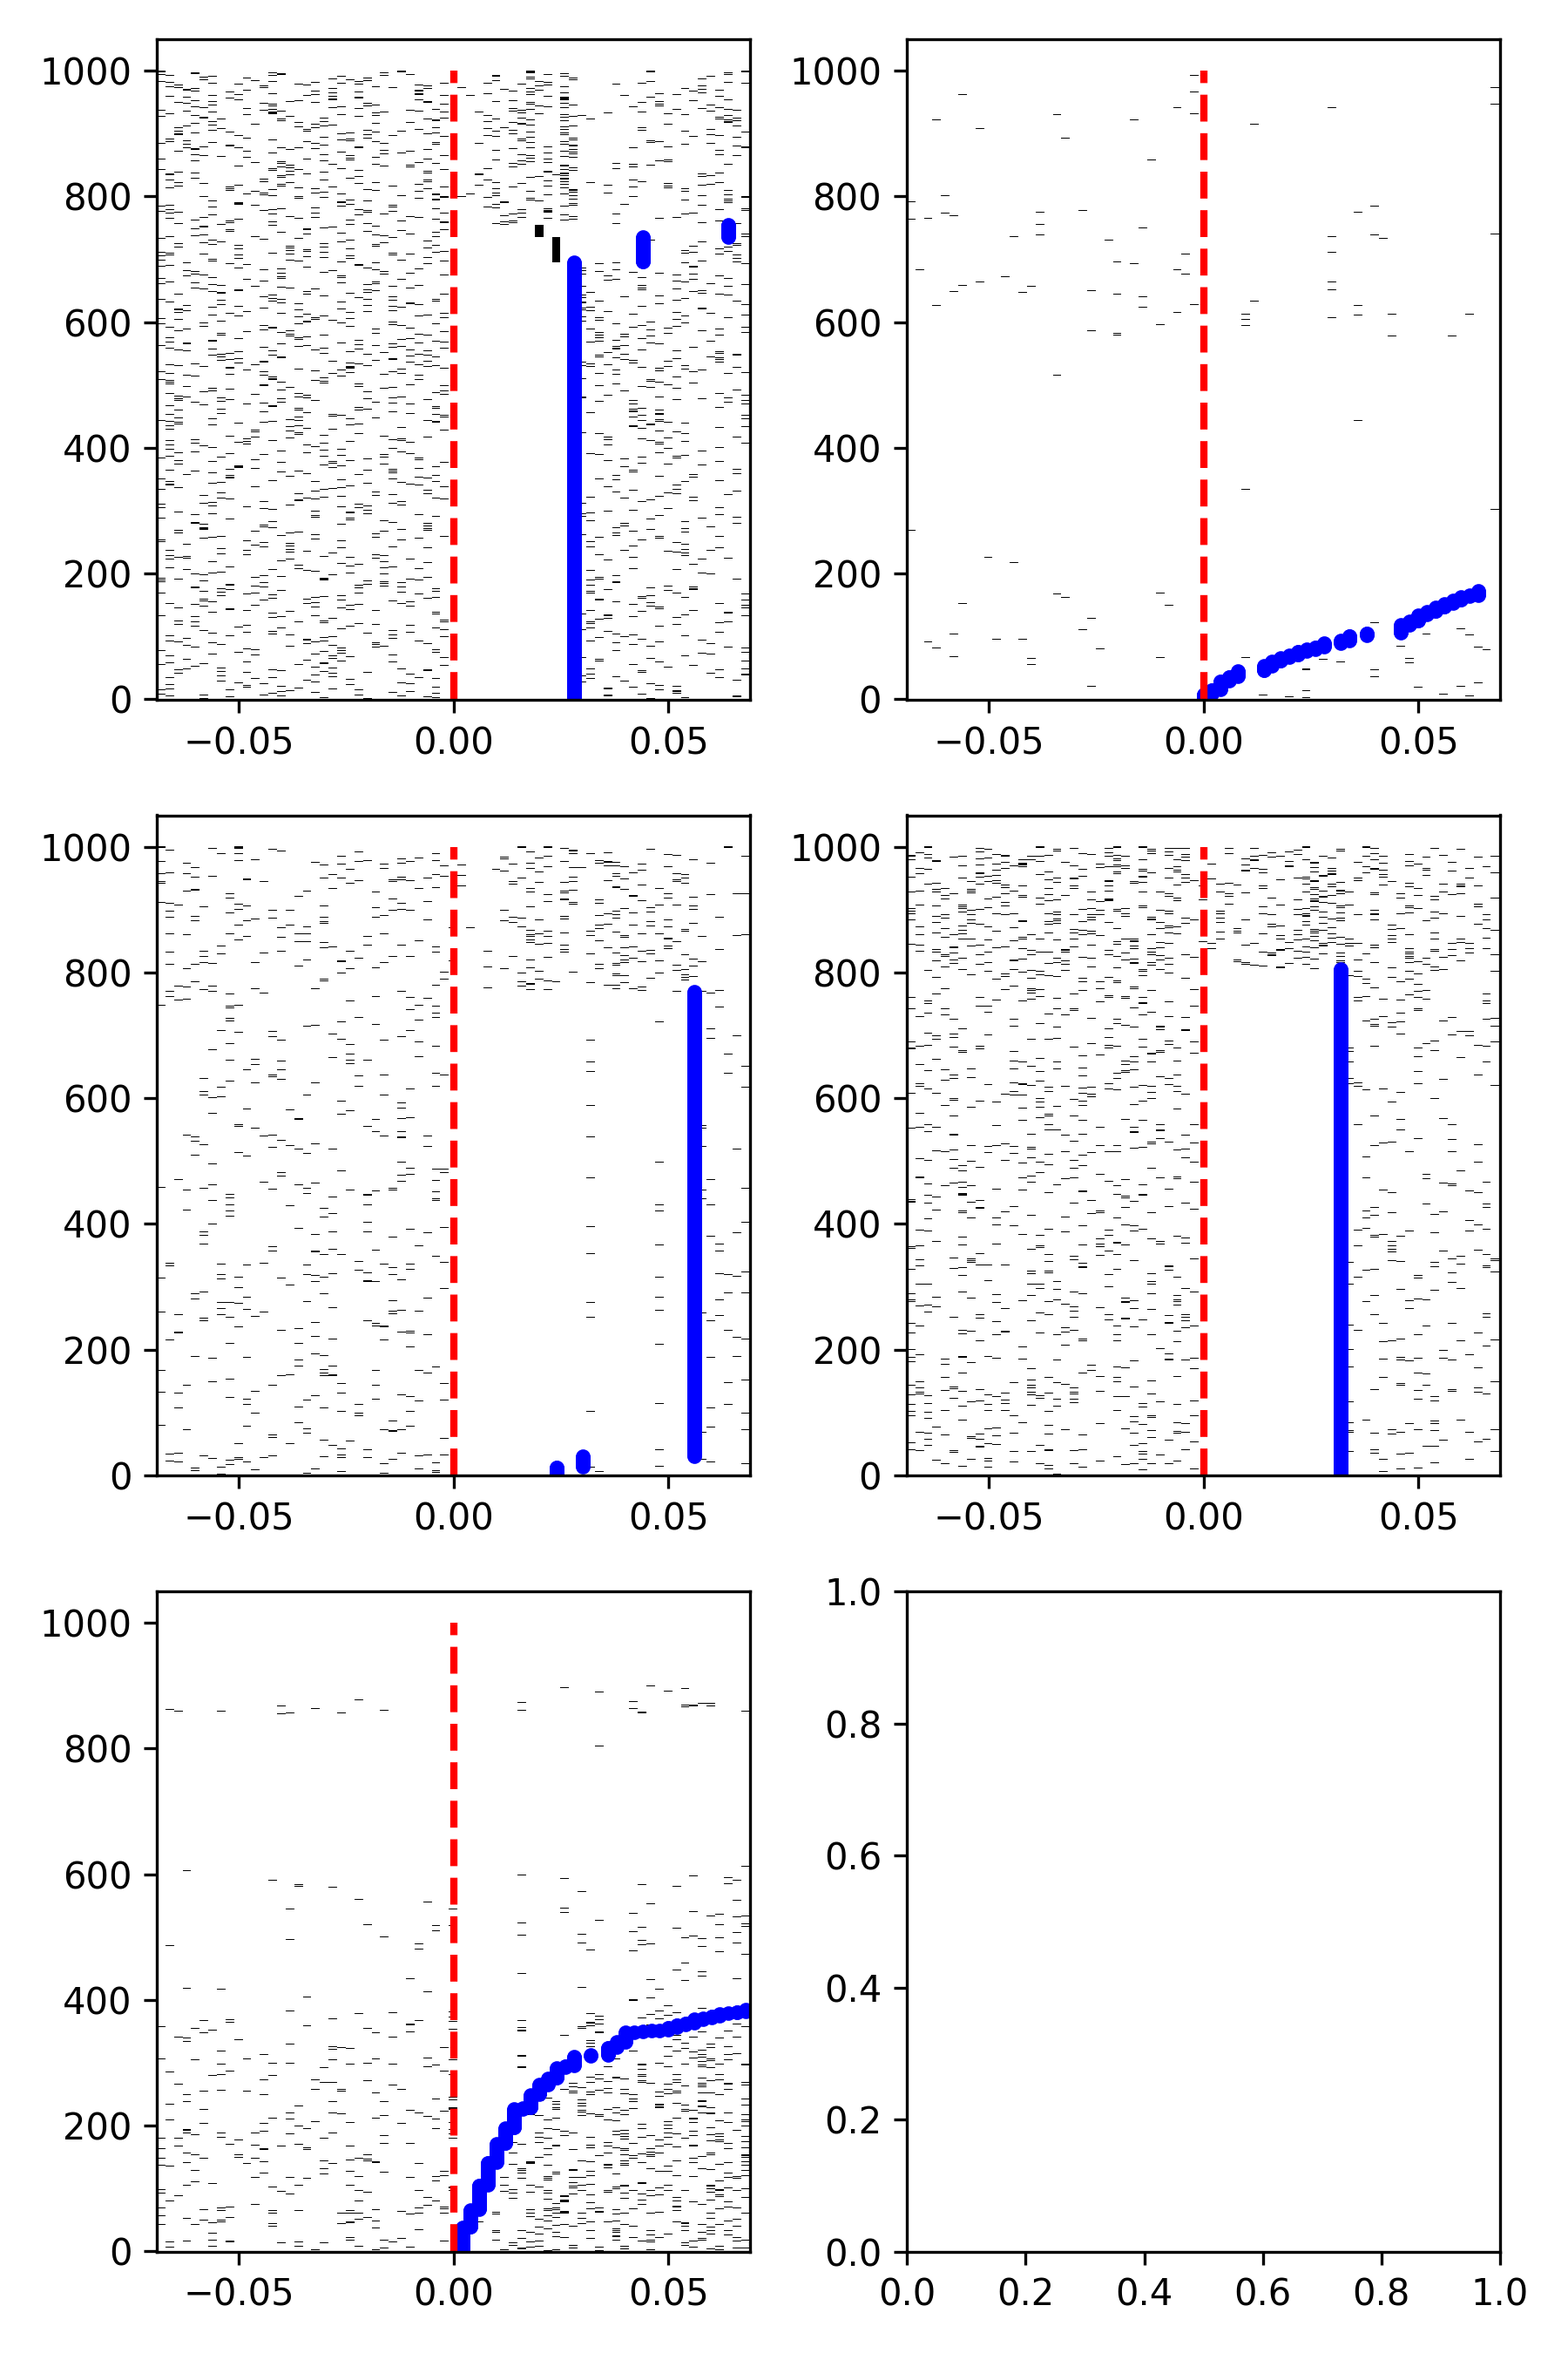
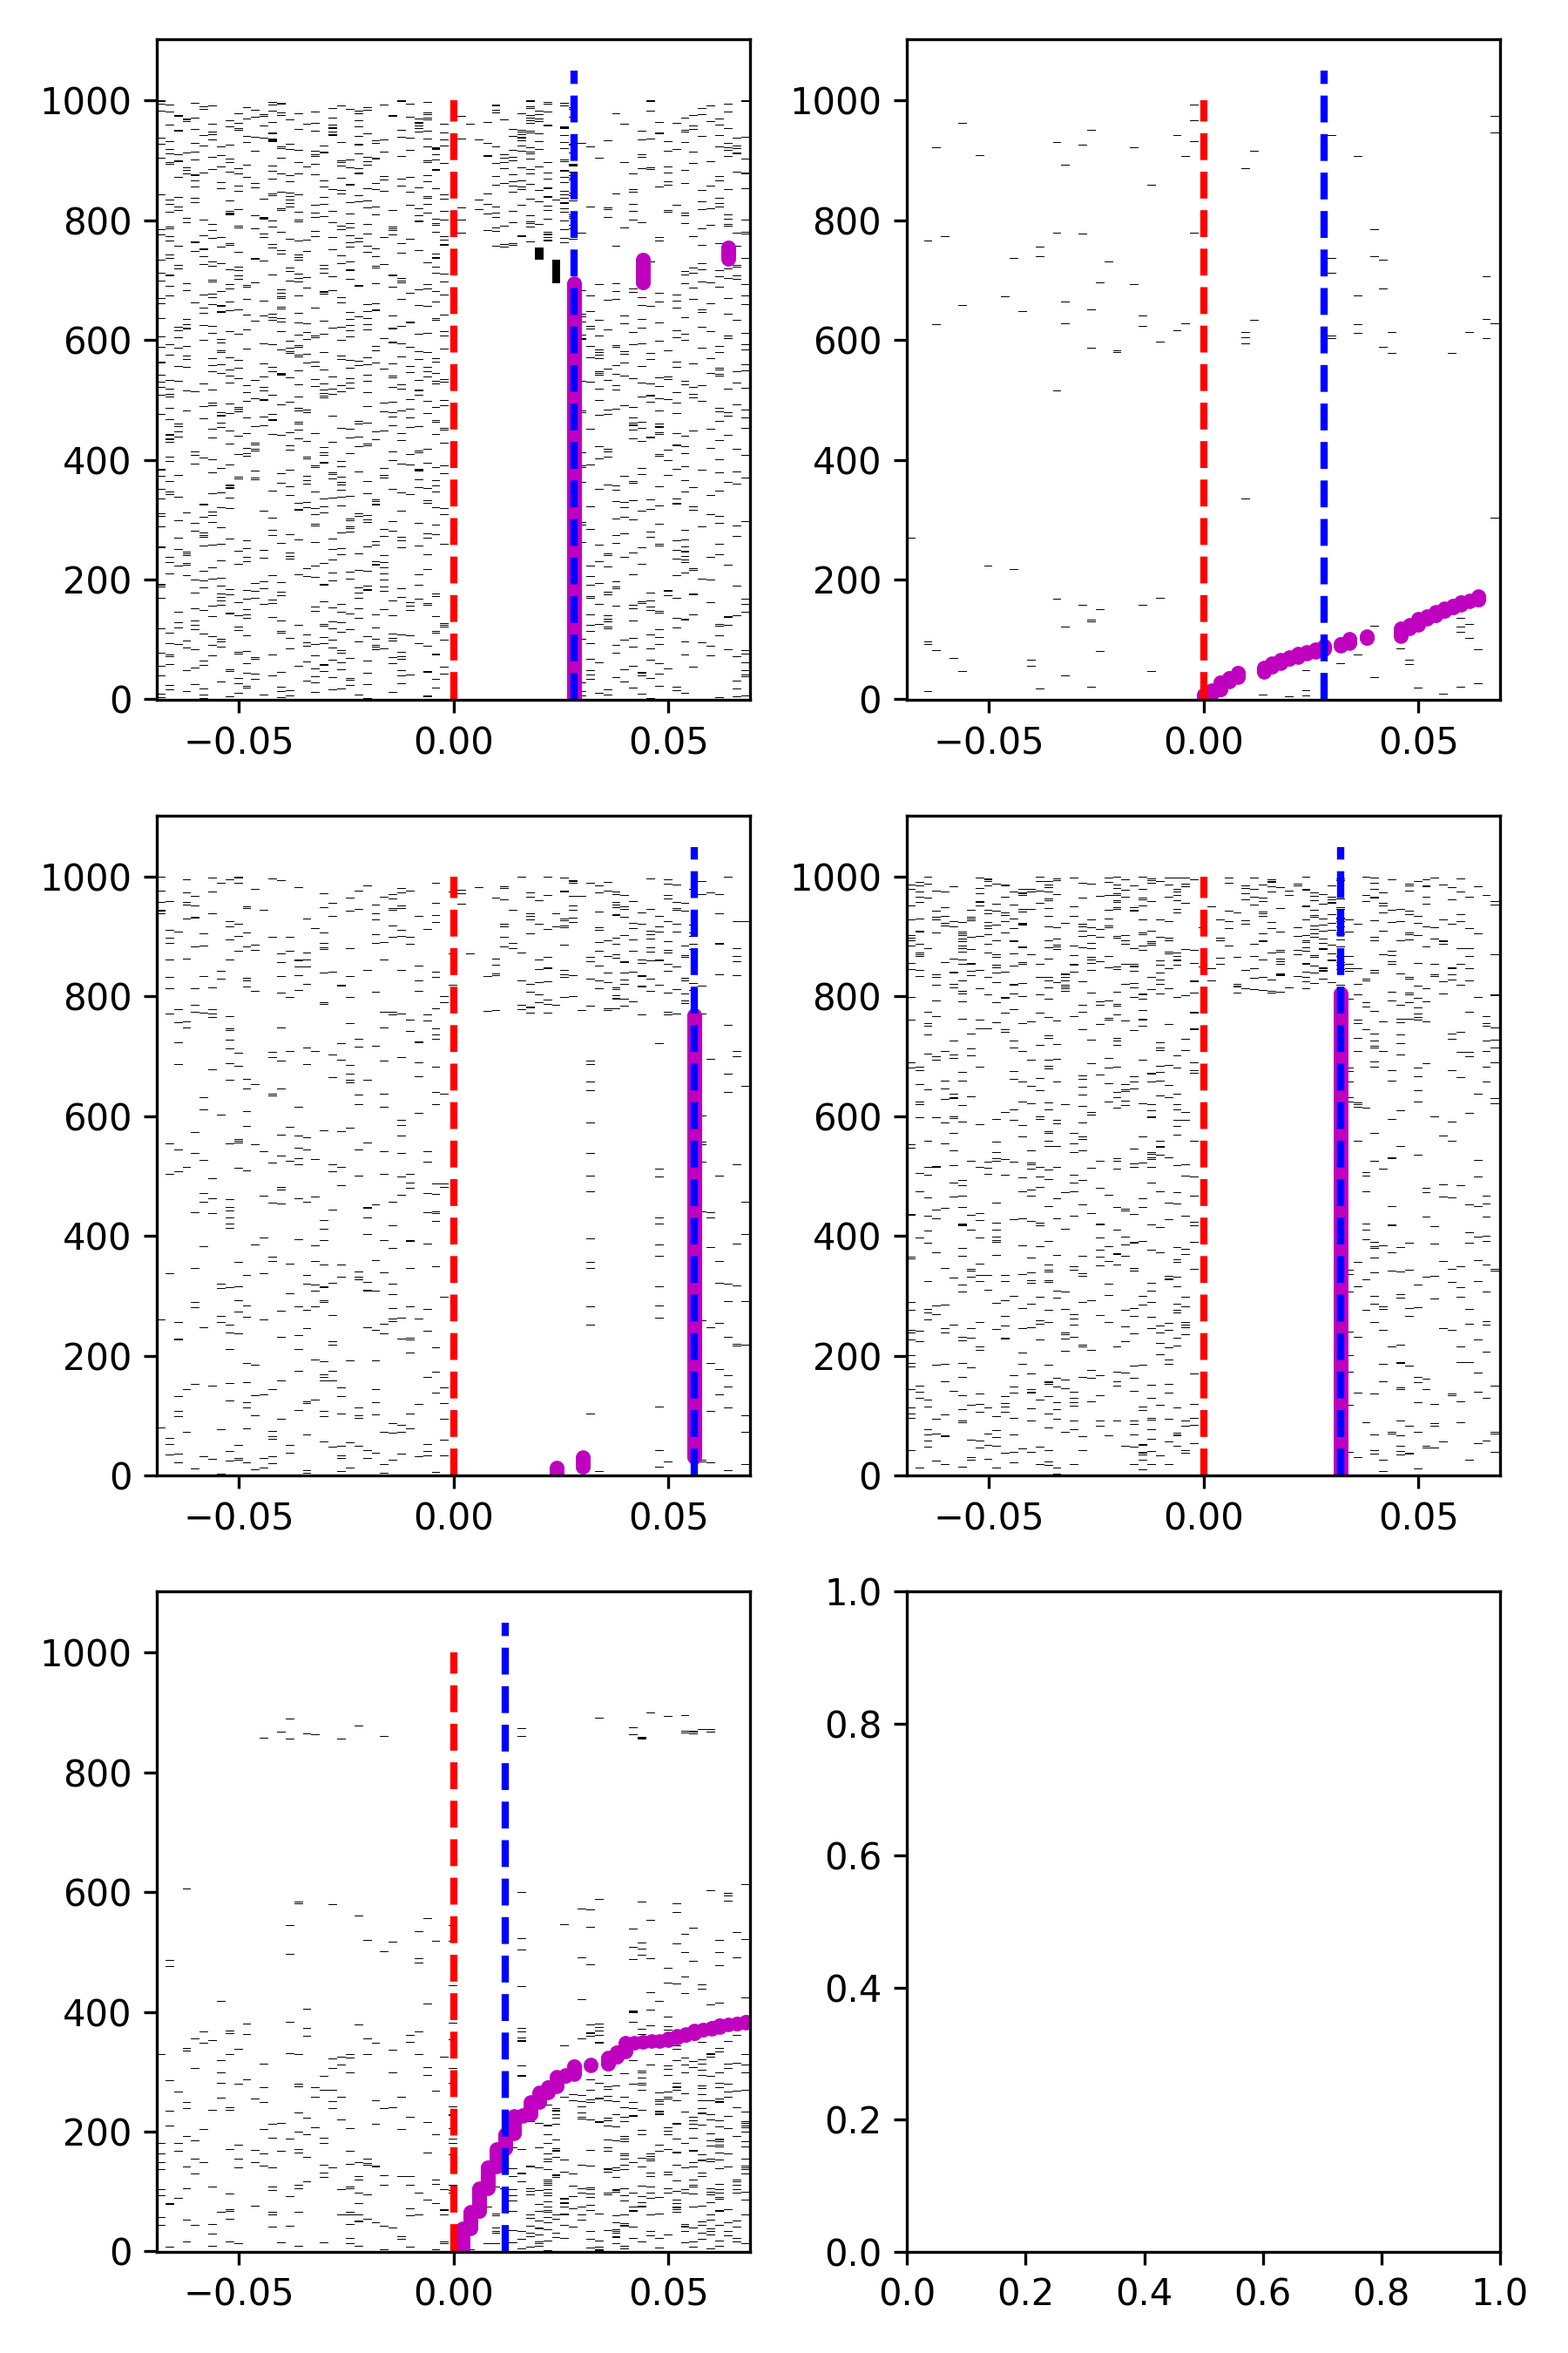
update tests

diff --git a/tests/test_analysis.py b/tests/test_analysis.py
@@ -1141,6 +1141,15 @@ class LatencyTests(unittest.TestCase):
         )
         np.testing.assert_allclose(llr.round(3), matlab_llr)
 
+        test_spike = np.array([1, 0, 1, 0, 1, 0, 1, 1, 1, 1, 1, 1])
+        rate1 = np.array([1, 1, 1, 1, 1, 1, 1, 1, 1, 1, 1, 1])
+        rate2 = np.array([0.5, 0.5, 0.5, 0.5, 0.5, 0.5, 0.5, 0.5, 0.5, 0.5, 0.5, 0.5])
+
+        llr_spike1 = latency.calc_llr_inh_poisson(test_spike, rate1, rate2)
+        llr_spike2 = latency.calc_llr_inh_poisson(test_spike, rate2, rate1)
+
+        np.testing.assert_allclose(llr_spike1, -llr_spike2)
+
     def test_accllr(self):
         
         lfp_altcond = np.array([
@@ -1402,22 +1411,46 @@ class LatencyTests(unittest.TestCase):
     def test_calc_accllr_wrapper_spikes(self):
 
         npts = 100
-        nch = 50
+        nch = 5
         ntrials = 30
         onset_idx = 50
-        altcond = np.random.poisson(0.5,npts)
-        altcond[onset_idx:] = np.random.poisson(5,npts-onset_idx)
-        altcond = np.repeat(np.tile(altcond, (nch,1)).T[:,:,None], ntrials, axis=2)
         np.random.seed(0)
-        nullcond = np.random.poisson(0.5,size=altcond.shape)
+        altcond = np.random.poisson(0.1,(npts,nch,ntrials))
+        altcond[onset_idx:] = np.random.poisson(0.5,(npts-onset_idx,nch,ntrials))
+        nullcond = np.random.poisson(0.1,size=altcond.shape)
         print(altcond.shape, nullcond.shape)
 
         # Test wrapper with spike data and no selectivity matching and trial_average=True
         st, roc_auc, roc_se, roc_p_fdrc = latency.calc_accllr_st(altcond, nullcond, altcond, nullcond, 'spike', 1)
-    
+        accllr_mean = np.nanmedian(st, axis=1)
+
+        # Plot rasters sorted by latency
+        ncol = 2
+        nt, nch, ntrial = altcond.shape
+        altcond_time = np.arange(nt)
+        nullcond_time = altcond_time.copy() - altcond_time[-1]
+        nrow = (nch//ncol)+1
+        fig, ax = plt.subplots(nrow, ncol, figsize=(6, nrow*3))
+        for iunit in range(nch):
+            sorted_idx = np.argsort(st[iunit])
+            irow = iunit//ncol
+            icol = iunit % ncol
+            ax[irow, icol].pcolor(nullcond_time, np.arange(ntrial), nullcond[:,iunit,sorted_idx].T, 
+                                cmap='Greys', vmin=0, vmax=1)
+            ax[irow, icol].pcolor(altcond_time, np.arange(ntrial), altcond[:,iunit,sorted_idx].T, 
+                                cmap='Greys', vmin=0, vmax=1)
+            ax[irow, icol].plot([0,0], [0,ntrial], 'r--', linewidth=2)
+            ax[irow, icol].scatter(st[iunit,sorted_idx], np.arange(ntrial), color='m', marker='.')
+            ax[irow, icol].plot([accllr_mean[iunit],accllr_mean[iunit]], ax[irow,icol].get_ylim(), 'b--', linewidth=2)
+
+        fig.tight_layout()
+        filename = 'accllr_sim_data_spike_rasters.png'
+        aopy.visualization.savefig(docs_dir, filename, transparent=False)
+
         self.assertEqual(st.shape, (nch, ntrials))
-        mask = np.logical_and(st > 50, st < 70)
-        mask = np.all(mask, axis=1)
+        print(accllr_mean)
+        mask = np.logical_and(accllr_mean > 50, accllr_mean < 70)
+        self.assertEqual(np.sum(mask), nch) # all channels should have selectivity within 50-70 s
 
         # Test on some real data
         test_data = aopy.data.load_hdf_group(data_dir, 'accllr_test_data_spike.hdf')
@@ -1447,8 +1480,9 @@ class LatencyTests(unittest.TestCase):
             ax[irow, icol].pcolor(altcond_time, np.arange(ntrial), altcond[:,iunit,sorted_idx].T, 
                                 cmap='Greys', vmin=0, vmax=1)
             ax[irow, icol].plot([0,0], [0,ntrial], 'r--', linewidth=2)
-            ax[irow, icol].scatter(st[iunit,sorted_idx], np.arange(ntrial), color='b', marker='.')
-                
+            ax[irow, icol].scatter(st[iunit,sorted_idx], np.arange(ntrial), color='m', marker='.')
+            ax[irow, icol].plot([accllr_mean[iunit],accllr_mean[iunit]], ax[irow,icol].get_ylim(), 'b--', linewidth=2)
+
         fig.tight_layout()
         filename = 'accllr_test_data_spike_rasters.png'
         aopy.visualization.savefig(docs_dir, filename, transparent=False)

diff --git a/tests/test_precondition.py b/tests/test_precondition.py
@@ -366,7 +366,36 @@ class FilterTests(unittest.TestCase):
         fname = 'filter_kinematics_accel.png'
         savefig(docs_dir, fname, transparent=False)
 
+    def test_smooth_raster(self):
+        fs = 1000  # Hz
+        nt, nch, ntr = 2000, 1, 6
+        fr_hz = 10.0  # firing rate per channel per trial
+        p_spike = fr_hz / fs
+        rng = np.random.default_rng(42)
+        raster = rng.poisson(0.5, (nt, nch, ntr))
 
+        smoothed_trials = precondition.smooth_spike_raster(raster, fs, smoothing_window=0.05)
+        self.assertEqual(smoothed_trials.shape, (nt, nch, ntr))
+
+        # Plot raw (single trial) and smoothed (mean across trials)
+        fig, axes = plt.subplots(2, 1, figsize=(8, 5), sharex=True)
+        im0 = axes[0].imshow(raster[:, 0, :].T, aspect='auto', interpolation='nearest',
+                             cmap='Greys', origin='lower')
+        axes[0].set_title('Raw spike raster (one trial)')
+        axes[0].set_ylabel('trial')
+        fig.colorbar(im0, ax=axes[0], shrink=0.7, label='spike')
+
+        # Result
+        im1 = axes[1].imshow(smoothed_trials[:, 0, :].T, aspect='auto', interpolation='nearest',
+                             cmap='Greys', origin='lower')
+        axes[1].set_title('Smoothed rate (mean across trials)')
+        axes[1].set_xlabel('time (samples)')
+        axes[1].set_ylabel('trial')
+        fig.colorbar(im1, ax=axes[1], shrink=0.7, label='rate (Hz)')
+
+        plt.tight_layout()
+        fname = 'smooth_spike_raster.png'
+        savefig(docs_dir, fname, transparent=False)
 
 class SpikeDetectionTests(unittest.TestCase):
         

diff --git a/aopy/precondition/base.py b/aopy/precondition/base.py
@@ -598,6 +598,29 @@ def bin_spikes(data, fs, bin_width):
     binned_spikes = binned_spikes/bin_width # convert from [spikes/bin] to [spikes/s]    
     return binned_spikes
 
+def smooth_spike_raster(raster, fs, smoothing_window=0.005):
+    '''
+    Smooths a spike raster using a Gaussian kernel. The kernel is defined by the smoothing_window parameter.
+    
+    Args:
+        raster (nt, nch): Spike raster data with multiple channels.
+        fs (float): Sampling rate of data [Hz].
+        smoothing_window (float): Width of the Gaussian kernel in seconds. Defaults to 0.005 (5 ms).
+
+    Returns:
+        smoothed_raster (nt, nch): Smoothed spike raster data.
+    '''
+    x = np.arange(-3*smoothing_window, 3*smoothing_window+1)
+    mu = 0
+    sigma = smoothing_window * fs
+    window = np.exp(-0.5 * ((x - mu)/sigma)**2) / (np.sqrt(2*np.pi) * sigma)
+    # Normalize window
+    window = window / np.sum(window)
+
+    smoothed_raster = np.apply_along_axis(
+        lambda d: np.convolve(d, window, mode='same'), 0, raster)
+    return smoothed_raster
+
 def calc_ks_waveforms(raw_data, sample_rate, spike_times_unit, templates, channel_pos, waveforms_nch=10, time_before=1000., time_after=1000.):
     '''
     Calculate waveforms, waveform channels, and positions of units, using templates from kilosort

diff --git a/aopy/analysis/latency.py b/aopy/analysis/latency.py
@@ -15,6 +15,7 @@ from tqdm.auto import tqdm
 import multiprocessing as mp
 from matplotlib import pyplot as plt
 
+from .. import precondition
 from .. import visualization
 from .. import utils
 from . import base
